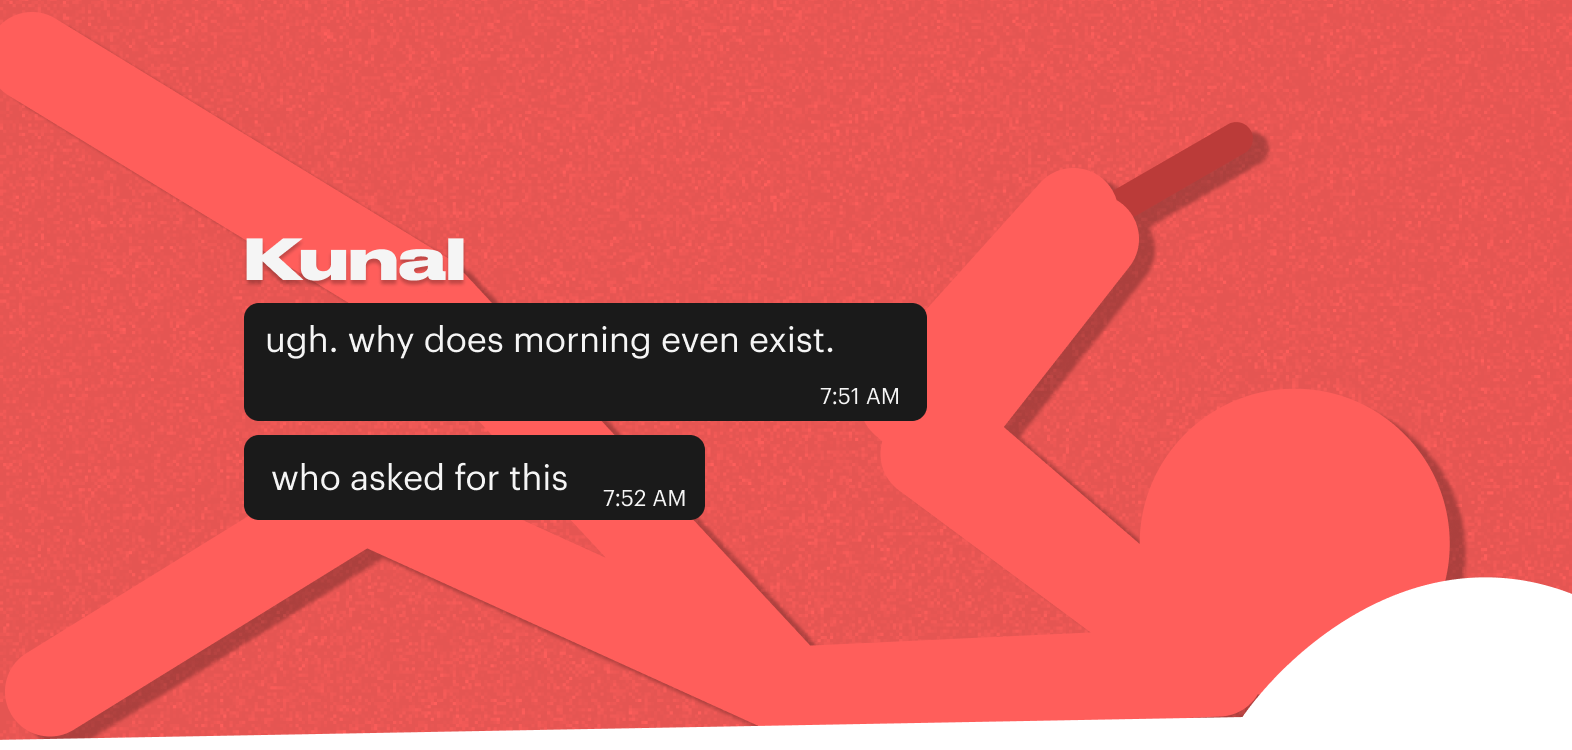
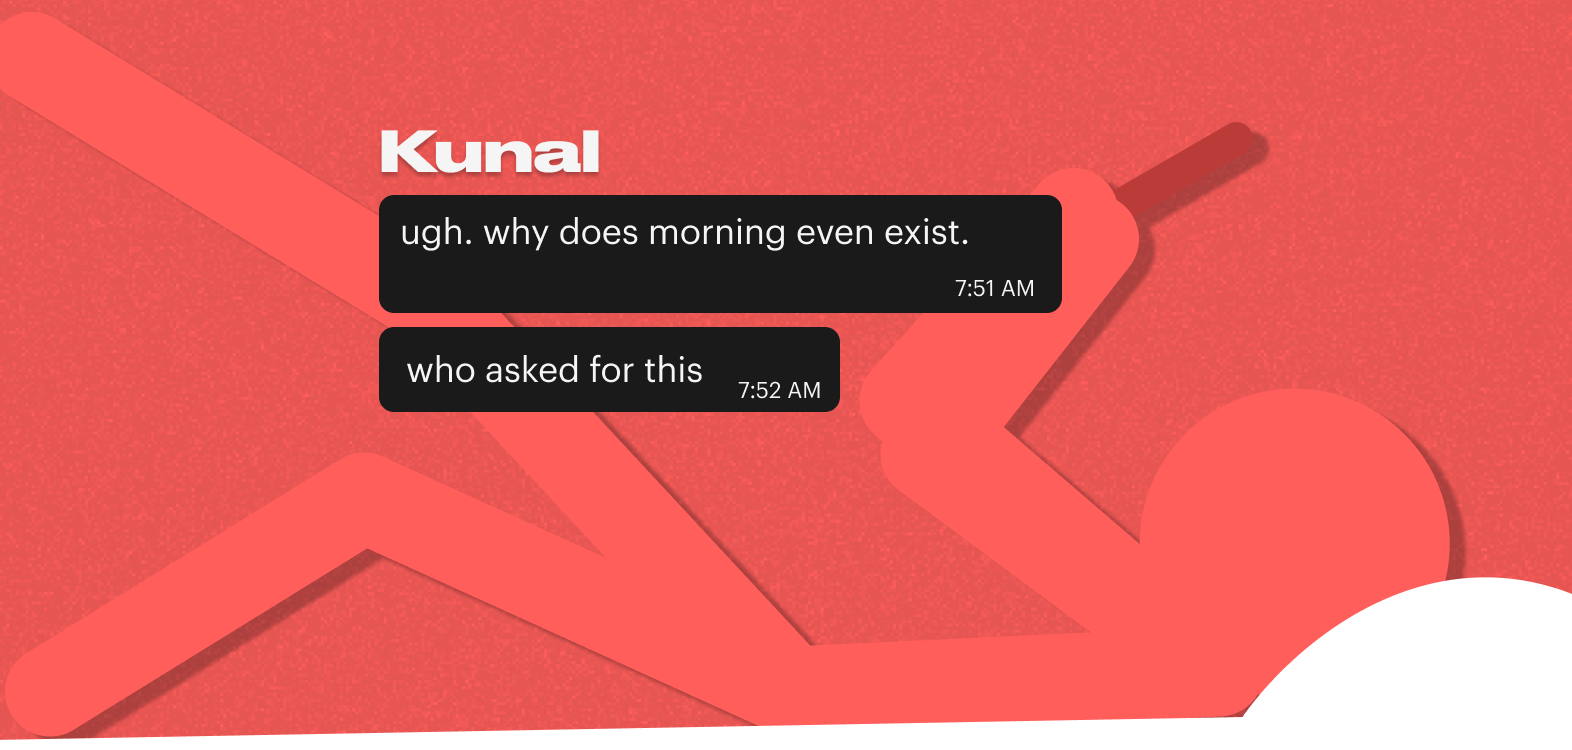
finalyes

Changed region(s): [[0.1559, 0.1533, 0.6858, 0.7053]]

diff --git a/client/src/components/blurts/Chat.jsx b/client/src/components/blurts/Chat.jsx
@@ -217,7 +217,7 @@ const Chat = () => {
             : originalMsg?.message;
 
           return (
-            <div key={msg.id} className={`message-group ${isHeading? "heading" : isMediator ? "mediator" : isLeft ? "left" : "right"}`}>
+            <div key={msg.id} className={`message-group ${isHeading? "chatheading" : isMediator ? "mediator" : isLeft ? "left" : "right"}`}>
               {!isHeading && showHeader && !isMediator && (
                 <div className="message-header">
                   <img src={`/${msg.sender.toLowerCase()}.png`} alt="dp" className="dp" />
@@ -233,7 +233,7 @@ const Chat = () => {
                     </div>
                   </div>
                 )}
-                <p dangerouslySetInnerHTML={{ __html: formatMessage(msg.message) }}></p>
+                <p>dangerouslySetInnerHTML={{ __html: formatMessage(msg.message) }}</p>
               </div>
             </div>
           );

diff --git a/client/src/components/blurts/styles/Chat.css b/client/src/components/blurts/styles/Chat.css
@@ -307,6 +307,20 @@ input[type="checkbox"]:checked::after {
     transition: scroll-top 0.3s ease-in-out;
   }
   
+
+  .chatheading {
+      align-items: center;
+      display: flex;
+      width: 100vw;
+      background: #f5f5f5;
+      margin: 0;
+      text-align: center;
+      font-family: Druk Wide Bold;
+      font-size: 45px;
+      padding: 20px 0;
+      margin-bottom: 20px;
+  }
+
   .scroll-to-bottom {
     font-family: "Graphik Trial";
     position: fixed;
@@ -392,13 +406,17 @@ input[type="range"]::-moz-range-thumb {
   cursor: pointer;
 }
 
+.message-box p{
+  margin: 0px;
+}
+
 /* Change track color when interacting */
 input[type="range"]:hover {
   background: #aaaaaa;
 }
 
 @media (max-width: 768px) {
-  .heading{
+  .chatheading{
     font-size: 16px;
     padding: 10px 0px;
   }
